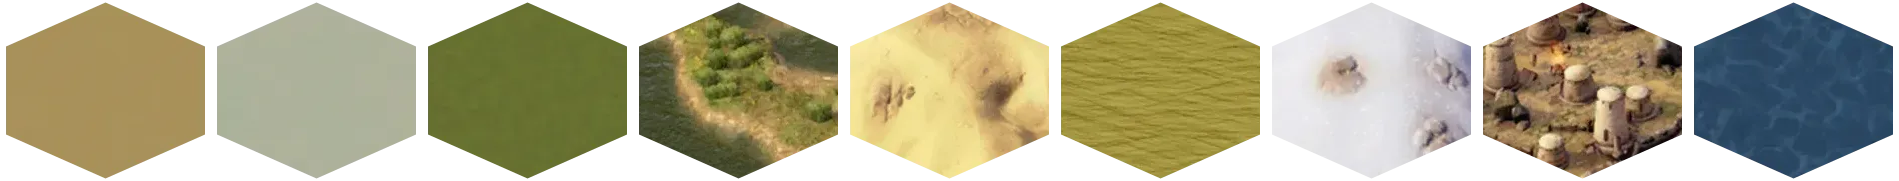
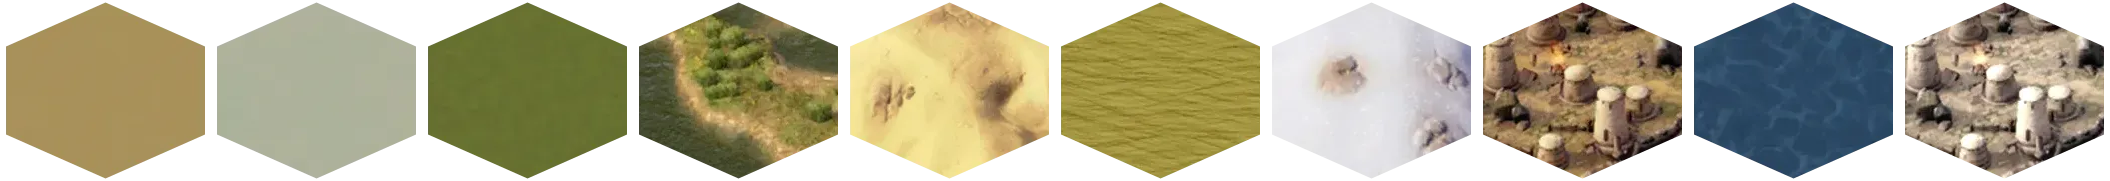
feat: fade urban terrain under improved city tiles
Bake a synthesized TERRAIN_URBAN_FADED variant (brightness 1.2,
saturation 0.55) as an extra cell appended to the terrain atlas, and
route urban tiles with an improvement to it from SpriteMap's getIcon so
the 3D building reads as the focal point on a washed-out urban texture
rather than competing with the fully-saturated one.

diff --git a/scripts/bake-atlases.ts b/scripts/bake-atlases.ts
@@ -34,6 +34,13 @@ const HEX_RADIUS_Y = HEX_V_SPACING / 1.5;
 const SPRITE_SCALE_X = 1.13;
 const SPRITE_SCALE_Y = 1.32;
 
+// Synthesized faded variant of TERRAIN_URBAN, baked alongside the regular
+// sprites and appended as an extra cell in the terrain atlas at runtime.
+// SpriteMap routes to this cell on urban tiles that have an improvement so
+// the 3D building reads as the focal point on a faded urban texture.
+// brightness >1 lightens; saturation <1 desaturates (1 = no change).
+const FADED_URBAN_TWEAK = { brightness: 1.2, saturation: 0.55 };
+
 const __filename = fileURLToPath(import.meta.url);
 const __dirname = dirname(__filename);
 const REPO_ROOT = resolve(__dirname, "..");
@@ -62,6 +69,7 @@ async function bakeCell(
 	cellW: number,
 	cellH: number,
 	hexMask: Buffer,
+	tweak: { brightness?: number; saturation?: number } | undefined,
 ): Promise<Buffer> {
 	const upscaledW = Math.round(sw * SPRITE_SCALE_X);
 	const upscaledH = Math.round(sh * SPRITE_SCALE_Y);
@@ -83,9 +91,13 @@ async function bakeCell(
 		.extract({ left: cropLeft, top: cropTop, width: cellW, height: cellH })
 		.toBuffer();
 
+	const toned = tweak
+		? await sharp(cropped).modulate(tweak).toBuffer()
+		: cropped;
+
 	// Apply the hex alpha mask: dest-in keeps the underlay where the mask is
 	// opaque (inside the hex) and clears it elsewhere.
-	return sharp(cropped)
+	return sharp(toned)
 		.composite([{ input: hexMask, blend: "dest-in" }])
 		.toBuffer();
 }
@@ -122,14 +134,44 @@ async function bakeAtlas(name: string): Promise<void> {
 			manifest.cellWidth,
 			manifest.cellHeight,
 			hexMask,
+			undefined,
 		);
 		composites.push({ input: baked, left: sprite.x, top: sprite.y });
 		console.log(`  ${spriteName} → (${sprite.x},${sprite.y})`);
 	}
 
+	// Append a faded TERRAIN_URBAN variant for the terrain atlas. The output
+	// atlas is widened by one cell; the manifest gets a synthetic
+	// TERRAIN_URBAN_FADED entry pointing at the new cell.
+	let outputWidth = meta.width;
+	const outputSprites = { ...manifest.sprites };
+	if (name === "terrain" && manifest.sprites.TERRAIN_URBAN) {
+		const u = manifest.sprites.TERRAIN_URBAN;
+		const fadedBaked = await bakeCell(
+			source,
+			u.x,
+			u.y,
+			u.width,
+			u.height,
+			manifest.cellWidth,
+			manifest.cellHeight,
+			hexMask,
+			FADED_URBAN_TWEAK,
+		);
+		composites.push({ input: fadedBaked, left: outputWidth, top: 0 });
+		outputSprites.TERRAIN_URBAN_FADED = {
+			x: outputWidth,
+			y: 0,
+			width: manifest.cellWidth,
+			height: manifest.cellHeight,
+		};
+		console.log(`  TERRAIN_URBAN_FADED → (${outputWidth},0)`);
+		outputWidth += manifest.cellWidth;
+	}
+
 	await sharp({
 		create: {
-			width: meta.width,
+			width: outputWidth,
 			height: meta.height,
 			channels: 4,
 			background: { r: 0, g: 0, b: 0, alpha: 0 },
@@ -139,7 +181,11 @@ async function bakeAtlas(name: string): Promise<void> {
 		.webp({ lossless: true })
 		.toFile(outputWebp);
 
-	await writeFile(outputJson, manifestText);
+	const outputManifest = { ...manifest, sprites: outputSprites };
+	await writeFile(
+		outputJson,
+		JSON.stringify(outputManifest, null, 2) + "\n",
+	);
 	console.log(`[${name}] wrote ${outputWebp}`);
 }
 

diff --git a/src/lib/SpriteMap.svelte b/src/lib/SpriteMap.svelte
@@ -698,7 +698,16 @@
 					),
 					iconAtlas: TERRAIN_ATLAS_URL,
 					iconMapping: tm.sprites,
-					getIcon: (d: MapTile) => d.terrain as string,
+					getIcon: (d: MapTile) => {
+						if (
+							d.terrain === "TERRAIN_URBAN" &&
+							d.improvement != null &&
+							tm.sprites.TERRAIN_URBAN_FADED != null
+						) {
+							return "TERRAIN_URBAN_FADED";
+						}
+						return d.terrain as string;
+					},
 					getPosition: (d: MapTile) => hexToPixel(d.x, d.y),
 					getSize: () => tm.cellWidth,
 					sizeUnits: "common",